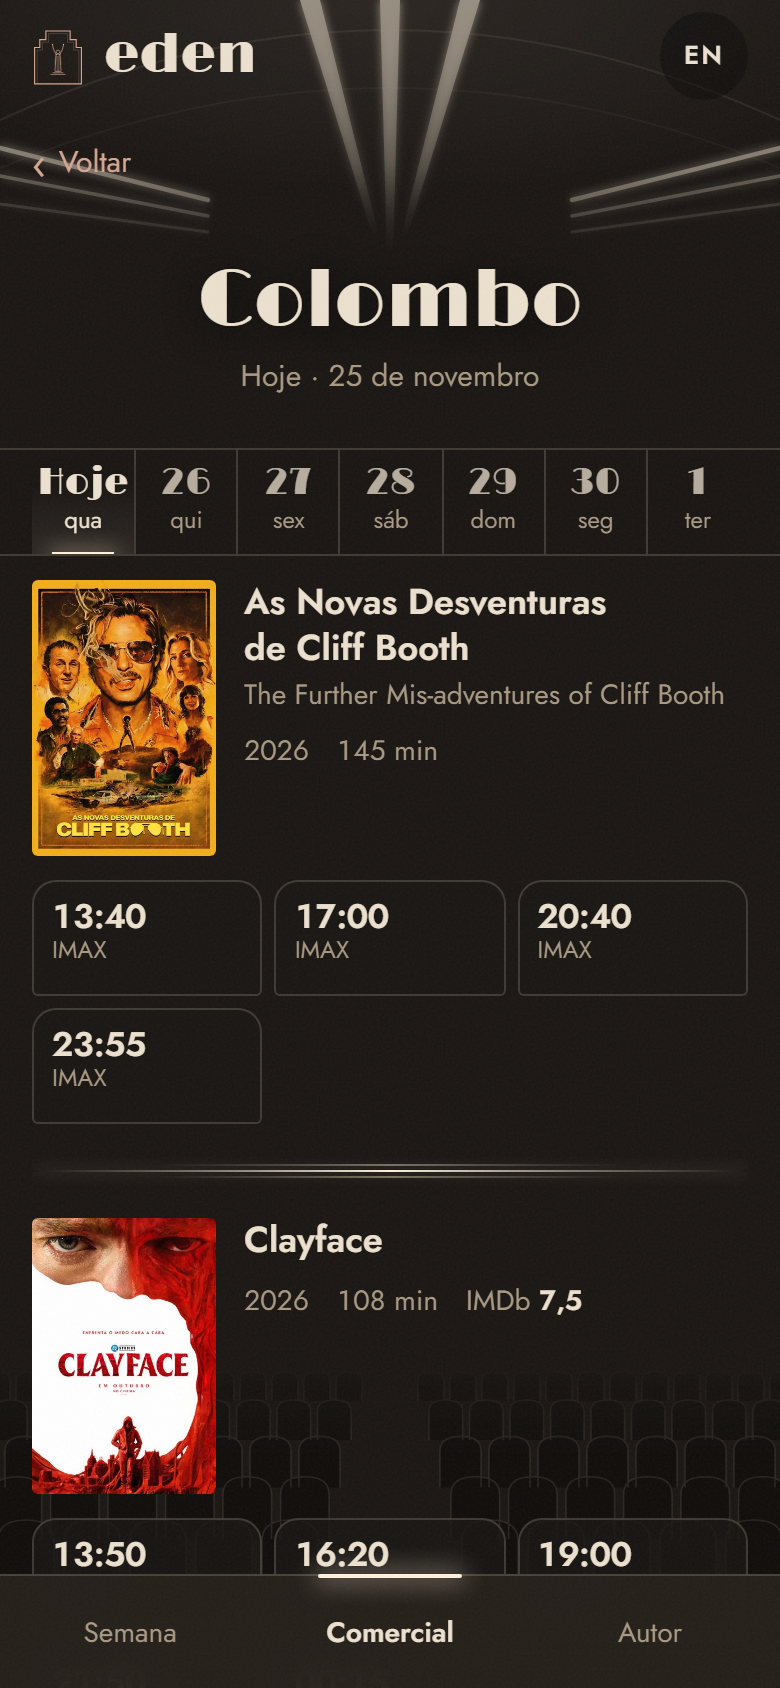
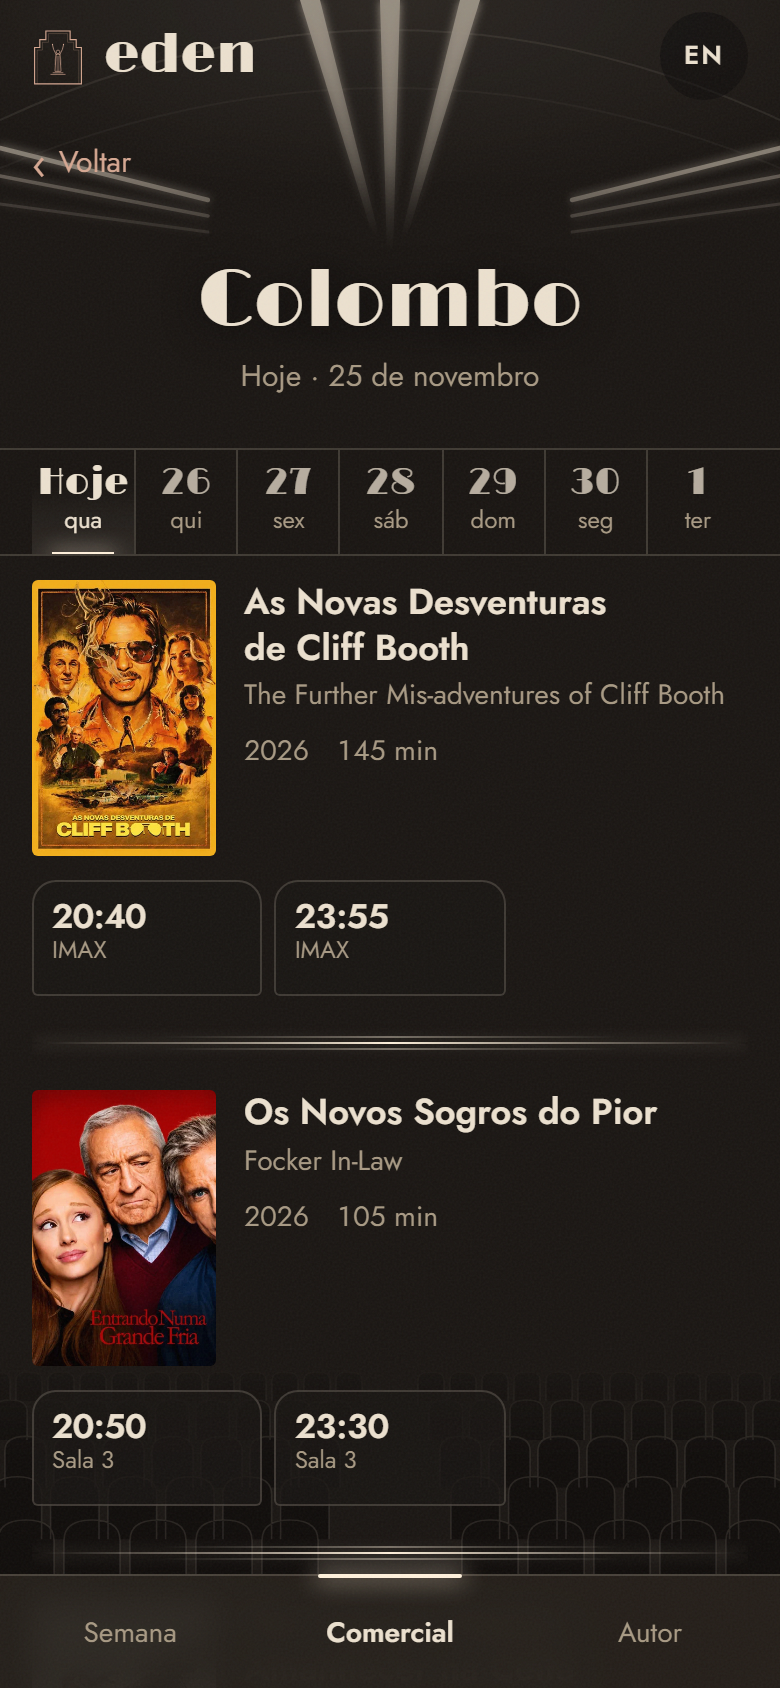
Comercial/Autor: Filmes | Cinemas toggle; "próxima: qui 26" instead of "0 sessões"
Filmes (default) is the Semana view restricted to that tab's cinemas —
commercial keeps top picks first, arthouse is never ranked. Cinemas is the
centre-out list; a cinema with nothing left today shows its next day.

diff --git a/web/src/App.tsx b/web/src/App.tsx
@@ -3,10 +3,10 @@ import { CINEMA_BY_ID } from "@eden/shared";
 import type { Film, Programme } from "@eden/shared";
 import { LangContext, initialLang, saveLang, strings, useT, type Lang } from "./lib/i18n.ts";
 import { closeSheet, useNow, useOnline, useProgramme, useRoute, routeHref, type Route, type Tab } from "./lib/hooks.ts";
-import { beyondCommercialWeek, filmsOnDay, weekDays } from "./lib/programme.ts";
+import { beyondCommercialWeek, filmsOnDay, weekDays, type FilmFilter } from "./lib/programme.ts";
 import { ago, lisbonDate, longDate, weekdayLong } from "./lib/time.ts";
 import { Emblem, SalaCeiling, SalaSeats } from "./components/Art.tsx";
-import { DaySelector, PageTitle, Ribbon, StaleNotes } from "./components/Bits.tsx";
+import { DaySelector, PageTitle, Ribbon, StaleNotes, ViewToggle } from "./components/Bits.tsx";
 import { FilmCard } from "./components/FilmCard.tsx";
 import { FilmSheet } from "./components/FilmSheet.tsx";
 import { CinemaList } from "./components/Cinemas.tsx";
@@ -60,13 +60,15 @@ function Screens({ p, route, go }: { p: Programme; route: Route; go: (r: Route, 
   const dayTitle = day === today ? t.today : weekdayLong(day, lang);
   const daySub = longDate(day, lang).replace(/^[^,\s]+,?\s*/, ""); // "25 de novembro" (the weekday is the title)
 
-  const cards = (cinemaId?: string) => {
-    const items = filmsOnDay(p, films, day, day === today ? now : undefined, cinemaId);
+  /** Film cards for the selected day — all cinemas, one kind (Comercial/Autor), or one cinema. */
+  const cards = (filter: FilmFilter = {}) => {
+    const items = filmsOnDay(p, films, day, day === today ? now : undefined, filter);
     if (!items.length) return <p className="empty">{day === today ? t.noMoreToday : t.noneThatDay}</p>;
     return items.map(({ film, sessions }, i) => (
       <div key={film.key}>
         {i > 0 && <Ribbon />}
-        <FilmCard film={film} sessions={sessions} onOpen={() => openFilm(film.key)} eager={i === 0} showCinema={!cinemaId} />
+        <FilmCard film={film} sessions={sessions} onOpen={() => openFilm(film.key)} eager={i === 0}
+          showCinema={!filter.cinemaId} badge={!filter.cinemaId && filter.kind !== "arthouse"} />
       </div>
     ));
   };
@@ -88,17 +90,28 @@ function Screens({ p, route, go }: { p: Programme; route: Route; go: (r: Route, 
     const cinema = route.cinemaId ? CINEMA_BY_ID.get(route.cinemaId) : undefined;
     body = cinema && cinema.kind === kind ? (
       <>
-        <a className="back" href={routeHref({ tab: route.tab })} onClick={(e) => { e.preventDefault(); go({ tab: route.tab, ...(route.day ? { day: route.day } : {}) }); }}>{t.back}</a>
+        <a className="back" href={routeHref({ tab: route.tab, view: "cinemas" })} onClick={(e) => { e.preventDefault(); go({ tab: route.tab, view: "cinemas", ...(route.day ? { day: route.day } : {}) }); }}>{t.back}</a>
         <PageTitle title={cinema.shortName} sub={`${dayTitle} · ${daySub}`} />
         <DaySelector days={days} today={today} value={day} onChange={pickDay} />
         {kind === "commercial" && beyondCommercialWeek(today, day) && <p className="note">{t.nextWeekNote}</p>}
         <StaleNotes p={{ ...p, sources: { [cinema.source]: p.sources[cinema.source] } as Programme["sources"] }} now={now} />
-        <div className="list">{cards(cinema.id)}</div>
+        <div className="list">{cards({ cinemaId: cinema.id })}</div>
       </>
     ) : (
       <>
-        <PageTitle title={kind === "commercial" ? t.commercial : t.arthouse} sub={longDate(today, lang)} />
-        <CinemaList p={p} kind={kind} today={today} now={now} onPick={(id) => go({ tab: route.tab, cinemaId: id, ...(route.day ? { day: route.day } : {}) })} />
+        <PageTitle title={kind === "commercial" ? t.commercial : t.arthouse} sub={route.view === "cinemas" ? longDate(today, lang) : `${dayTitle} · ${daySub}`} />
+        {/* José: in Comercial/Autor you may want the films, not the cinemas — default Filmes. */}
+        <ViewToggle value={route.view ?? "filmes"} onChange={(v) => go({ ...route, view: v === "cinemas" ? "cinemas" : undefined }, { replace: true })} />
+        {route.view === "cinemas" ? (
+          <CinemaList p={p} kind={kind} today={today} now={now} onPick={(id) => go({ tab: route.tab, cinemaId: id, view: "cinemas", ...(route.day ? { day: route.day } : {}) })} />
+        ) : (
+          <>
+            <DaySelector days={days} today={today} value={day} onChange={pickDay} />
+            {kind === "commercial" && beyondCommercialWeek(today, day) && <p className="note">{t.nextWeekNote}</p>}
+            <div className="list">{cards({ kind })}</div>
+            <StaleNotes p={p} kind={kind} now={now} />
+          </>
+        )}
       </>
     );
   }

diff --git a/web/test/programme.test.ts b/web/test/programme.test.ts
@@ -1,6 +1,6 @@
 import { describe, expect, it } from "vitest";
 import type { Film, Programme, Session } from "@eden/shared";
-import { beyondCommercialWeek, filmsOnDay, filmSchedule, staleCinemas } from "../src/lib/programme.ts";
+import { beyondCommercialWeek, filmsOnDay, filmSchedule, nextSessionDate, staleCinemas } from "../src/lib/programme.ts";
 import { parseRoute, routeHref } from "../src/lib/hooks.ts";
 import { weekdayShort } from "../src/lib/time.ts";
 
@@ -27,6 +27,18 @@ describe("selectors", () => {
     expect(day[0]!.sessions).toHaveLength(2); // includes the 00:30 after-midnight session
   });
 
+  it("filters by kind (Autor: arthouse only, never ranked) or by cinema", () => {
+    const now = Date.parse("2026-11-25T08:00:00Z");
+    expect(filmsOnDay(p, map, "2026-11-25", now, { kind: "arthouse" }).map((d) => d.film.key)).toEqual(["c", "b"]); // by time, no picks
+    expect(filmsOnDay(p, map, "2026-11-25", now, { kind: "commercial" }).map((d) => d.film.key)).toEqual(["a"]);
+    expect(filmsOnDay(p, map, "2026-11-25", now, { cinemaId: "nimas" }).map((d) => d.film.key)).toEqual(["b"]);
+  });
+
+  it("finds a cinema's next day with sessions instead of showing 0", () => {
+    expect(nextSessionDate(p, "nimas", "2026-11-25", Date.parse("2026-11-25T20:00:00Z"))).toBeUndefined();
+    expect(nextSessionDate(p, "nos-colombo", "2026-11-25", Date.parse("2026-11-25T22:00:00Z"))).toBe("2026-11-25"); // the 00:30 still counts
+  });
+
   it("groups a film's schedule by day then cinema", () => {
     const sched = filmSchedule(p, "a", "2026-11-25", 0);
     expect(sched).toHaveLength(1);
@@ -51,6 +63,12 @@ describe("routing + time", () => {
     expect(href).toBe("/autor/cinemateca?dia=2026-11-27&filme=tmdb-426");
     const u = new URL(href, "https://eden.test");
     expect(parseRoute(u as unknown as Location)).toEqual(r);
+  });
+
+  it("keeps the Cinemas view in the URL", () => {
+    expect(routeHref({ tab: "autor", view: "cinemas" })).toBe("/autor?ver=cinemas");
+    expect(parseRoute(new URL("/autor?ver=cinemas", "https://eden.test") as unknown as Location)).toEqual({ tab: "autor", view: "cinemas" });
+    expect(parseRoute(new URL("/?ver=cinemas", "https://eden.test") as unknown as Location)).toEqual({ tab: "semana" });
   });
 
   it("abbreviates Portuguese weekdays", () => {

diff --git a/web/src/lib/programme.ts b/web/src/lib/programme.ts
@@ -11,15 +11,18 @@ export const isArthouse = (s: Session) => CINEMA_BY_ID.get(s.cinemaId)?.kind ===
  * Films showing on `date`, top picks first (in their order), then by next session time (spec).
  * When `now` is given (Hoje), past sessions are hidden and films with none left drop out.
  */
-export function filmsOnDay(p: Programme, films: Map<string, Film>, date: string, now?: number, cinemaId?: string): FilmDay[] {
+export interface FilmFilter { cinemaId?: string; kind?: Cinema["kind"] }
+
+export function filmsOnDay(p: Programme, films: Map<string, Film>, date: string, now?: number, { cinemaId, kind }: FilmFilter = {}): FilmDay[] {
   const byFilm = new Map<string, Session[]>();
   for (const s of p.sessions) {
     if (s.programmeDate !== date || (cinemaId && s.cinemaId !== cinemaId)) continue;
+    if (kind && CINEMA_BY_ID.get(s.cinemaId)?.kind !== kind) continue;
     if (now != null && Date.parse(s.startsAt) <= now) continue;
     (byFilm.get(s.filmKey) ?? byFilm.set(s.filmKey, []).get(s.filmKey)!).push(s);
   }
-  // A cinema's own page is chronological; the city-wide list puts top picks first (spec).
-  const picks = cinemaId ? [] : p.topPicks[date] ?? [];
+  // A cinema's own page is chronological; arthouse is never ranked (spec); otherwise top picks first.
+  const picks = cinemaId || kind === "arthouse" ? [] : p.topPicks[date] ?? [];
   const rank = (k: string) => (picks.includes(k) ? picks.indexOf(k) : Infinity);
   return [...byFilm]
     .flatMap(([key, sessions]) => {
@@ -68,6 +71,16 @@ export function beyondCommercialWeek(today: string, date: string): boolean {
   const dow = new Date(`${today}T12:00:00Z`).getUTCDay(); // 0 Sun … 3 Wed
   const nextWed = addDays(today, (3 - dow + 7) % 7);
   return date > nextWed;
+}
+
+/** First day (from today) with a session still to come at this cinema, if any. */
+export function nextSessionDate(p: Programme, cinemaId: string, today: string, now: number): string | undefined {
+  let best: string | undefined;
+  for (const s of p.sessions) {
+    if (s.cinemaId !== cinemaId || s.programmeDate < today || Date.parse(s.startsAt) <= now) continue;
+    if (!best || s.programmeDate < best) best = s.programmeDate;
+  }
+  return best;
 }
 
 export interface CinemaStatus { cinema: Cinema; status?: SourceStatus }

diff --git a/web/src/lib/hooks.ts b/web/src/lib/hooks.ts
@@ -43,7 +43,7 @@ export function useOnline(): boolean {
 
 // ── Router: / (week, today selected), /comercial[/<cinema>], /autor[/<cinema>]; ?dia= day, ?filme= film sheet ──
 export type Tab = "semana" | "comercial" | "autor";
-export interface Route { tab: Tab; cinemaId?: string; film?: string; day?: string }
+export interface Route { tab: Tab; cinemaId?: string; film?: string; day?: string; view?: "cinemas" }
 
 export function parseRoute(loc: Location = location): Route {
   const [first, second] = loc.pathname.split("/").filter(Boolean);
@@ -51,12 +51,14 @@ export function parseRoute(loc: Location = location): Route {
   const q = new URLSearchParams(loc.search);
   const film = q.get("filme") ?? undefined;
   const day = /^\d{4}-\d{2}-\d{2}$/.test(q.get("dia") ?? "") ? q.get("dia")! : undefined;
-  return { tab, ...(second && (tab === "comercial" || tab === "autor") ? { cinemaId: decodeURIComponent(second) } : {}), ...(day ? { day } : {}), ...(film ? { film } : {}) };
+  const view = q.get("ver") === "cinemas" && tab !== "semana" ? ("cinemas" as const) : undefined;
+  return { tab, ...(second && (tab === "comercial" || tab === "autor") ? { cinemaId: decodeURIComponent(second) } : {}), ...(view ? { view } : {}), ...(day ? { day } : {}), ...(film ? { film } : {}) };
 }
 
 export function routeHref(r: Route): string {
   const path = r.tab === "semana" ? "/" : `/${r.tab}${r.cinemaId ? `/${encodeURIComponent(r.cinemaId)}` : ""}`;
   const q = new URLSearchParams();
+  if (r.view) q.set("ver", r.view);
   if (r.day) q.set("dia", r.day);
   if (r.film) q.set("filme", r.film);
   return q.size ? `${path}?${q}` : path;

diff --git a/web/src/styles.css b/web/src/styles.css
@@ -76,6 +76,14 @@ main { position: relative; z-index: 1; }
 .days [aria-pressed="true"] b { opacity: 1; }
 .days [aria-pressed="true"]::after { content: ""; position: absolute; left: 10px; right: 10px; bottom: -1px; height: 2px; background: var(--color-luz); box-shadow: var(--glow); }
 
+/* ── Filmes | Cinemas toggle ──────────────────────────── */
+.view-toggle { display: grid; grid-template-columns: 1fr 1fr; width: min(100%, 280px); margin: 0 auto 14px; border: 1px solid var(--fio); border-radius: 14px 14px 4px 4px; overflow: hidden; background: rgb(26 22 19 / .7); }
+.view-toggle button { min-height: 44px; color: var(--color-po); font-size: .9375rem; position: relative; }
+.view-toggle button + button { border-left: 1px solid var(--fio); }
+.view-toggle button:hover { color: var(--color-travertino); }
+.view-toggle [aria-pressed="true"] { color: var(--color-travertino); font-weight: 600; background: linear-gradient(to top, rgb(255 241 220 / .09), transparent 70%); }
+.view-toggle [aria-pressed="true"]::after { content: ""; position: absolute; left: 22%; right: 22%; bottom: 0; height: 2px; background: var(--color-luz); box-shadow: var(--glow); }
+
 /* ── Film card ────────────────────────────────────────── */
 .list { margin-top: 12px; }
 .list > div { content-visibility: auto; contain-intrinsic-size: auto 260px; }

diff --git a/web/src/components/Cinemas.tsx b/web/src/components/Cinemas.tsx
@@ -1,7 +1,7 @@
 import type { Cinema, Programme } from "@eden/shared";
 import { useT } from "../lib/i18n.ts";
-import { cinemaDay, cinemasOfKind } from "../lib/programme.ts";
-import { ago } from "../lib/time.ts";
+import { cinemaDay, cinemasOfKind, nextSessionDate } from "../lib/programme.ts";
+import { ago, dayOfMonth, weekdayShort } from "../lib/time.ts";
 
 /** Comercial / Autor: the cinemas, each with today's remaining sessions or its data status. */
 export function CinemaList({ p, kind, today, now, onPick }: { p: Programme; kind: Cinema["kind"]; today: string; now: number; onPick: (id: string) => void }) {
@@ -11,7 +11,10 @@ export function CinemaList({ p, kind, today, now, onPick }: { p: Programme; kind
       {cinemasOfKind(kind).map((c) => {
         const status = p.sources[c.source];
         const left = cinemaDay(p, c.id, today, now).length;
-        const note = !status?.ok ? (status?.lastSuccess ? t.updated(ago(status.lastSuccess, lang, now)) : t.noTimes) : t.sessions(left);
+        const next = left ? undefined : nextSessionDate(p, c.id, today, now);
+        const note = !status?.ok ? (status?.lastSuccess ? t.updated(ago(status.lastSuccess, lang, now)) : t.noTimes)
+          : left ? t.sessions(left)
+          : next ? t.nextOn(`${weekdayShort(next, lang)} ${dayOfMonth(next)}`) : t.nothingSoon;
         return (
           <li key={c.id}>
             <button type="button" onClick={() => onPick(c.id)}>

diff --git a/web/src/components/FilmCard.tsx b/web/src/components/FilmCard.tsx
@@ -23,7 +23,9 @@ export function Poster({ film, width = 92, eager = false }: { film: Film; width?
 }
 
 /** Card: poster, title (PT + original), year, runtime, IMDb, next session chips. Tap → film sheet. */
-export function FilmCard({ film, sessions, onOpen, eager = false, showCinema = true }: { film: Film; sessions: Session[]; onOpen: () => void; eager?: boolean; showCinema?: boolean }) {
+export function FilmCard({ film, sessions, onOpen, eager = false, showCinema = true, badge = showCinema }: {
+  film: Film; sessions: Session[]; onOpen: () => void; eager?: boolean; showCinema?: boolean; badge?: boolean;
+}) {
   const shown = sessions.length > VISIBLE + 1 ? sessions.slice(0, VISIBLE) : sessions;
   return (
     <article className="film">
@@ -37,7 +39,7 @@ export function FilmCard({ film, sessions, onOpen, eager = false, showCinema = t
         </div>
       </div>
       <div className="chips">
-        {shown.map((s) => <Chip key={s.id} s={s} badge={showCinema} showCinema={showCinema} />)}
+        {shown.map((s) => <Chip key={s.id} s={s} badge={badge} showCinema={showCinema} />)}
         {shown.length < sessions.length && <MoreChip n={sessions.length - shown.length} onOpen={onOpen} />}
       </div>
     </article>

diff --git a/web/src/lib/i18n.ts b/web/src/lib/i18n.ts
@@ -26,6 +26,7 @@ const dict = {
     footer: (ago: string) => `Programação das salas, atualizada ${ago}.`,
     credits: "Dados de filmes: TMDB (sem endosso do TMDB). Classificações IMDb via OMDb.",
     moreAbout: "Sobre o filme", cinemaPage: "Site do cinema",
+    films: "Filmes", cinemas: "Cinemas", view: "Ver por", nextOn: (d: string) => `próxima: ${d}`, nothingSoon: "sem sessões marcadas",
     installTitle: "Leve a eden no telemóvel",
     installIos: "Toque em Partilhar e depois em «Adicionar ao ecrã principal».",
     installAndroid: "Instale a app: abre como uma app, sem browser.",
@@ -53,6 +54,7 @@ const dict = {
     footer: (ago: string) => `Cinema programmes, updated ${ago}.`,
     credits: "Film data: TMDB (not endorsed or certified by TMDB). IMDb ratings via OMDb.",
     moreAbout: "About the film", cinemaPage: "Cinema's page",
+    films: "Films", cinemas: "Cinemas", view: "View by", nextOn: (d: string) => `next: ${d}`, nothingSoon: "nothing scheduled",
     installTitle: "Keep eden on your phone",
     installIos: "Tap Share, then “Add to Home Screen”.",
     installAndroid: "Install the app: it opens like an app, no browser.",

diff --git a/scraper/scripts/shoot-app.ts b/scraper/scripts/shoot-app.ts
@@ -29,9 +29,11 @@ await shot("01-semana-hoje", "/", settle);
 await shot("02-scrolled", "/", (p) => settle(p).then(() => p.evaluate(() => scrollTo(0, 700))).then(() => {}));
 await shot("03-film-sheet", "/", (p) => settle(p).then(() => p.locator(".film h3 button").first().click()));
 await shot("04-semana-sabado", "/", (p) => settle(p).then(() => p.locator(".days button").nth(3).click()));
-await shot("05-comercial", "/comercial", settle);
+await shot("05-comercial-filmes", "/comercial", settle);
+await shot("05b-comercial-cinemas", "/comercial?ver=cinemas", settle);
 await shot("06-colombo", "/comercial/nos-colombo", settle);
-await shot("07-autor", "/autor", settle);
+await shot("07-autor-filmes", "/autor", settle);
+await shot("07b-autor-cinemas", "/autor?ver=cinemas", settle);
 await shot("08-cinemateca-quinta", "/autor/cinemateca", (p) => settle(p).then(() => p.locator(".days button").nth(1).click()));
 await shot("09-en", "/", (p) => settle(p).then(() => p.locator(".lang").click()));
 await page.evaluate(() => localStorage.removeItem("eden.lang"));

diff --git a/web/src/components/Bits.tsx b/web/src/components/Bits.tsx
@@ -42,6 +42,18 @@ export function StaleNotes({ p, kind, now }: { p: Programme; kind?: Cinema["kind
   );
 }
 
+/** Filmes | Cinemas — a two-box balcony front, the active box lit like the selected day. */
+export function ViewToggle({ value, onChange }: { value: "filmes" | "cinemas"; onChange: (v: "filmes" | "cinemas") => void }) {
+  const { t } = useT();
+  return (
+    <div className="view-toggle" role="group" aria-label={t.view}>
+      {(["filmes", "cinemas"] as const).map((v) => (
+        <button key={v} type="button" aria-pressed={value === v} onClick={() => onChange(v)}>{v === "filmes" ? t.films : t.cinemas}</button>
+      ))}
+    </div>
+  );
+}
+
 export function PageTitle({ title, sub }: { title: string; sub?: string }) {
   return (
     <div className="page-title">

diff --git a/scraper/scripts/a11y.ts b/scraper/scripts/a11y.ts
@@ -7,7 +7,7 @@ const b = await chromium.launch();
 const page = await (await b.newContext({ viewport: { width: 390, height: 844 }, colorScheme: "dark", serviceWorkers: "block" })).newPage();
 const screens: [string, string, ((p: typeof page) => Promise<unknown>)?][] = [
   ["semana", "/"], ["sheet", "/", (p) => p.locator(".film h3 button").first().click()], ["sabado", "/", (p) => p.locator(".days button").nth(3).click()],
-  ["comercial", "/comercial"], ["cinema", "/comercial/nos-colombo"], ["autor", "/autor"], ["cinemateca", "/autor/cinemateca"],
+  ["comercial", "/comercial"], ["cinema", "/comercial/nos-colombo"], ["autor", "/autor"], ["autor-cinemas", "/autor?ver=cinemas"], ["cinemateca", "/autor/cinemateca"],
 ];
 let total = 0;
 for (const [name, path, act] of screens) {

diff --git a/docs/decisions.md b/docs/decisions.md
@@ -37,3 +37,4 @@
 | 33 | UCI blocked from GitHub Actions too (HTTP 403 "Sorry, you have been blocked", 25 Nov 2026); detector now recognises it. Only legitimate route left: ask UCI | No evasion (#16). |
 | 34 | José's app round (25 Nov 2026): Hoje tab dropped (Semana is home, today selected); cinema pages = film cards; film sheet links to IMDb / Letterboxd / TMDB / cinema page (`Film.pageUrl`, scraped); facade = opening splash; sala ceiling fixed on top + seat rows at the bottom; add-to-home-screen pop-up (Android install button, iOS two-tap hint, quiet 14 days after "Agora não") | Faster to the films; details one tap away without cluttering the app. |
 | 35 | Cinemas are listed centre-out (`CENTRE_OUT` in `packages/shared/src/cinemas.ts`): Comercial/Autor lists, film-sheet cinema groups, and same-time chips; the UCIs last while they have no times, and their "sem horários" notes sit below the films on Semana | José: what's closest first; UCI not useful until UCI grants access. |
+| 36 | Comercial/Autor get a **Filmes \| Cinemas** toggle (default Filmes, `?ver=cinemas` in the URL); cinema rows show "próxima: qui 26" instead of "0 sessões". Letterboxd links stay `letterboxd.com/tmdb/<id>/`: the Letterboxd app may not follow that redirect on a cold start, but the direct `/film/<slug>/` URL would need automated requests to Letterboxd (ToS) or guessing | José: Autor people want the films; "0 sessões" read as broken. |
